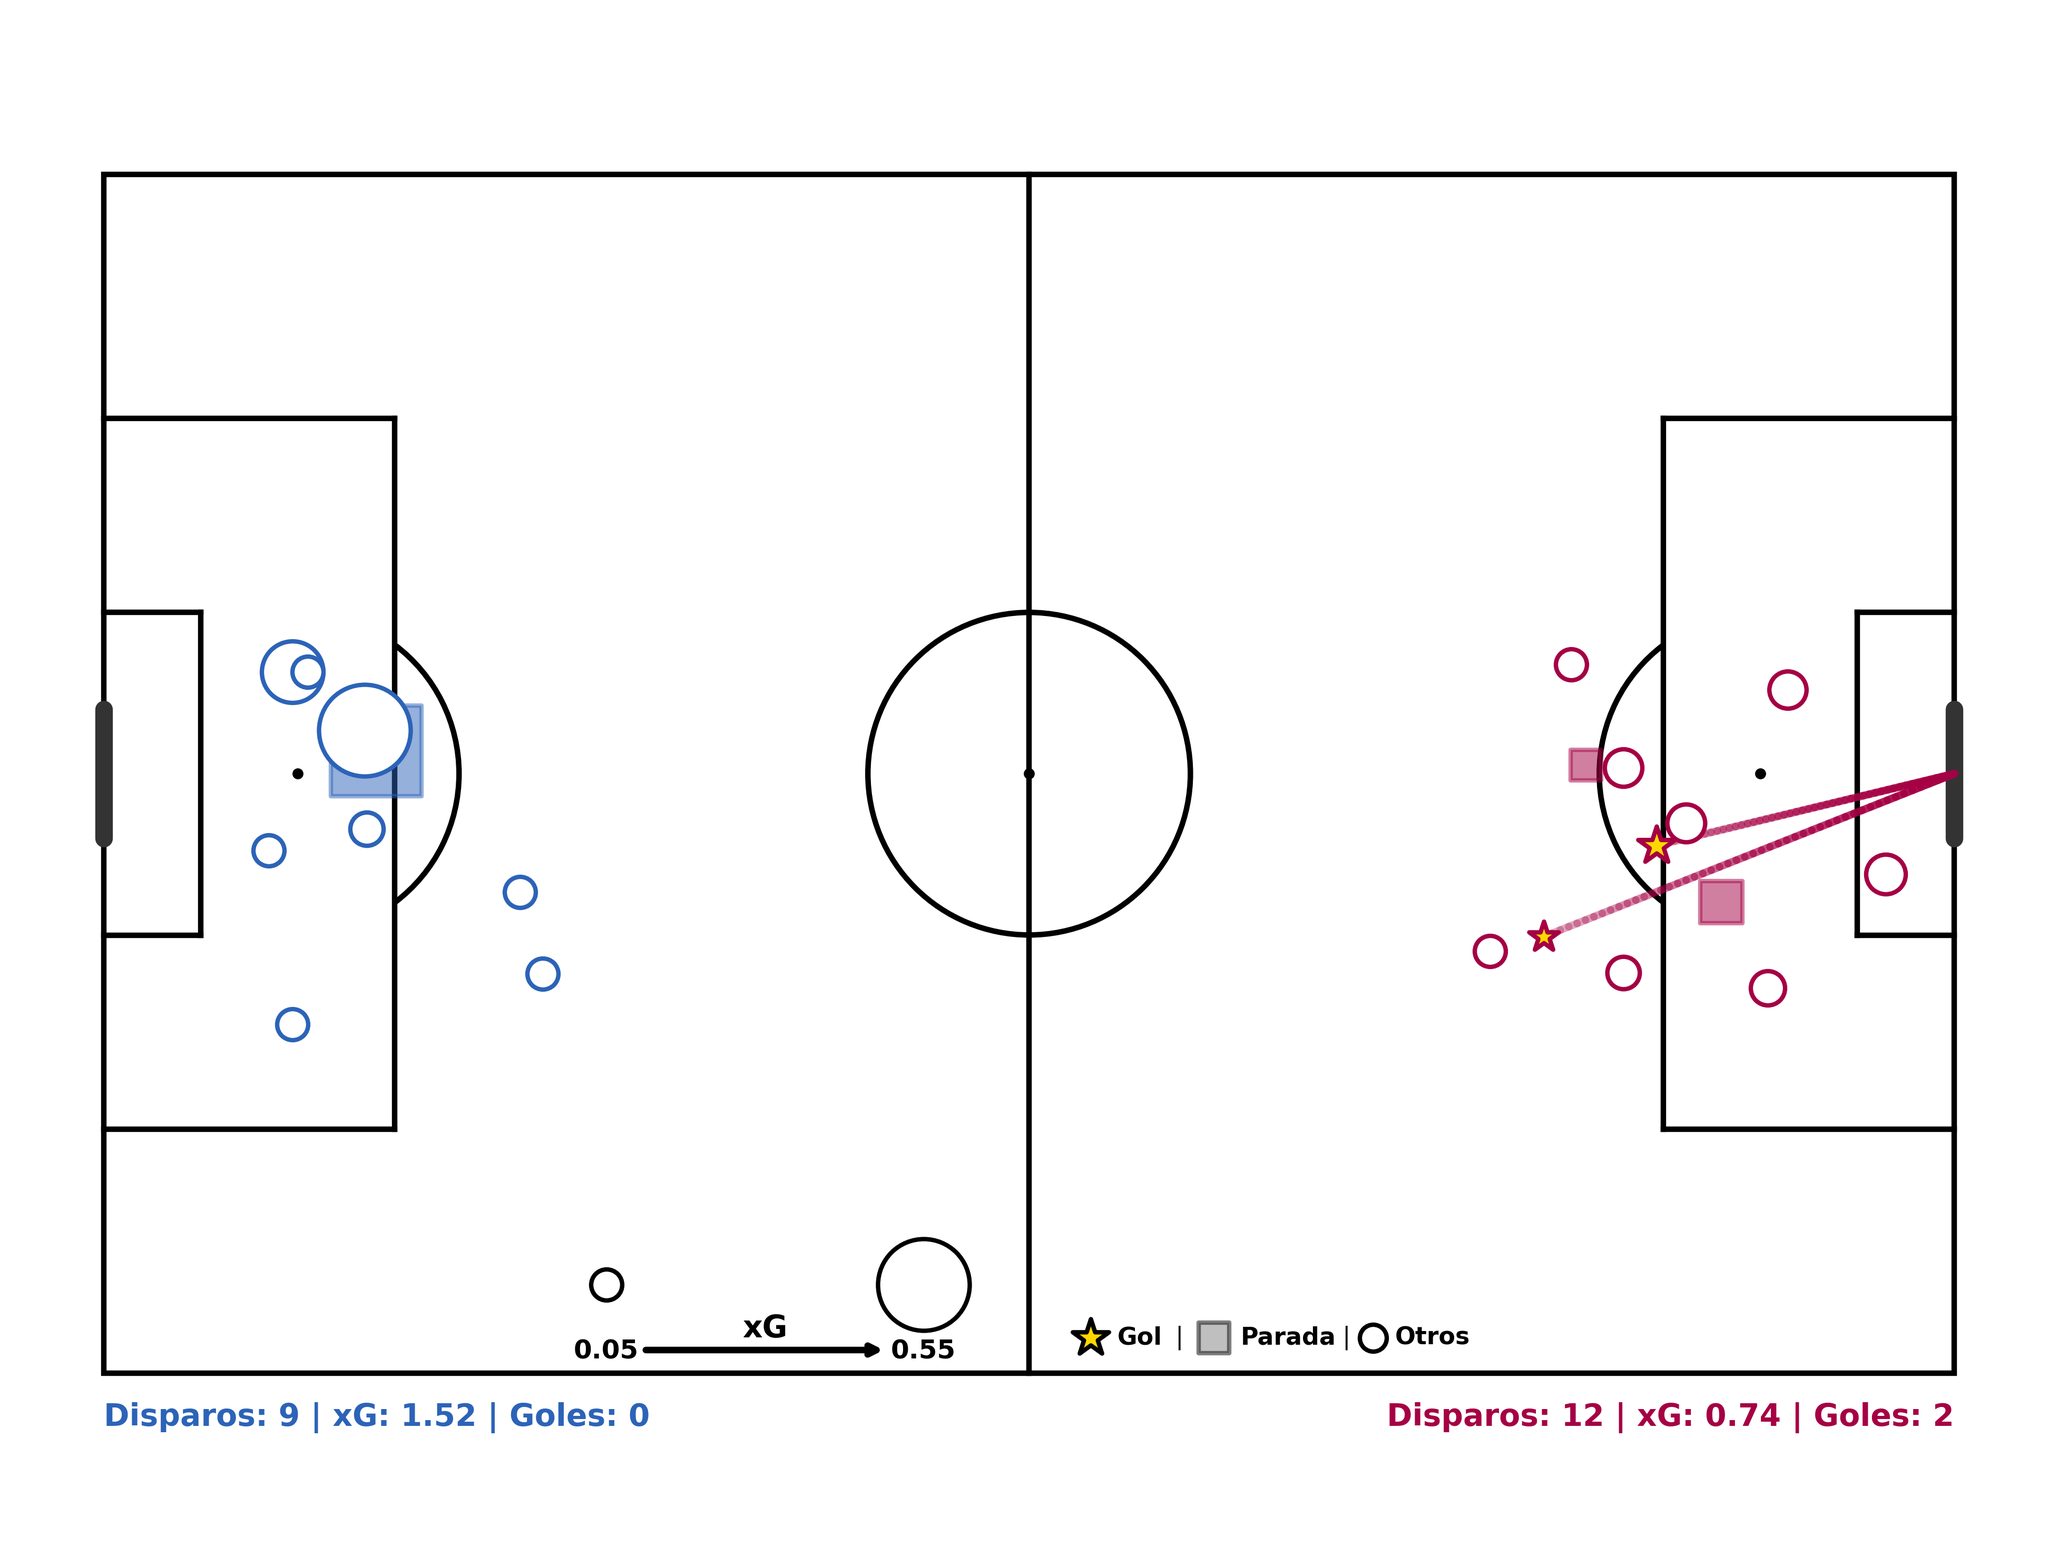
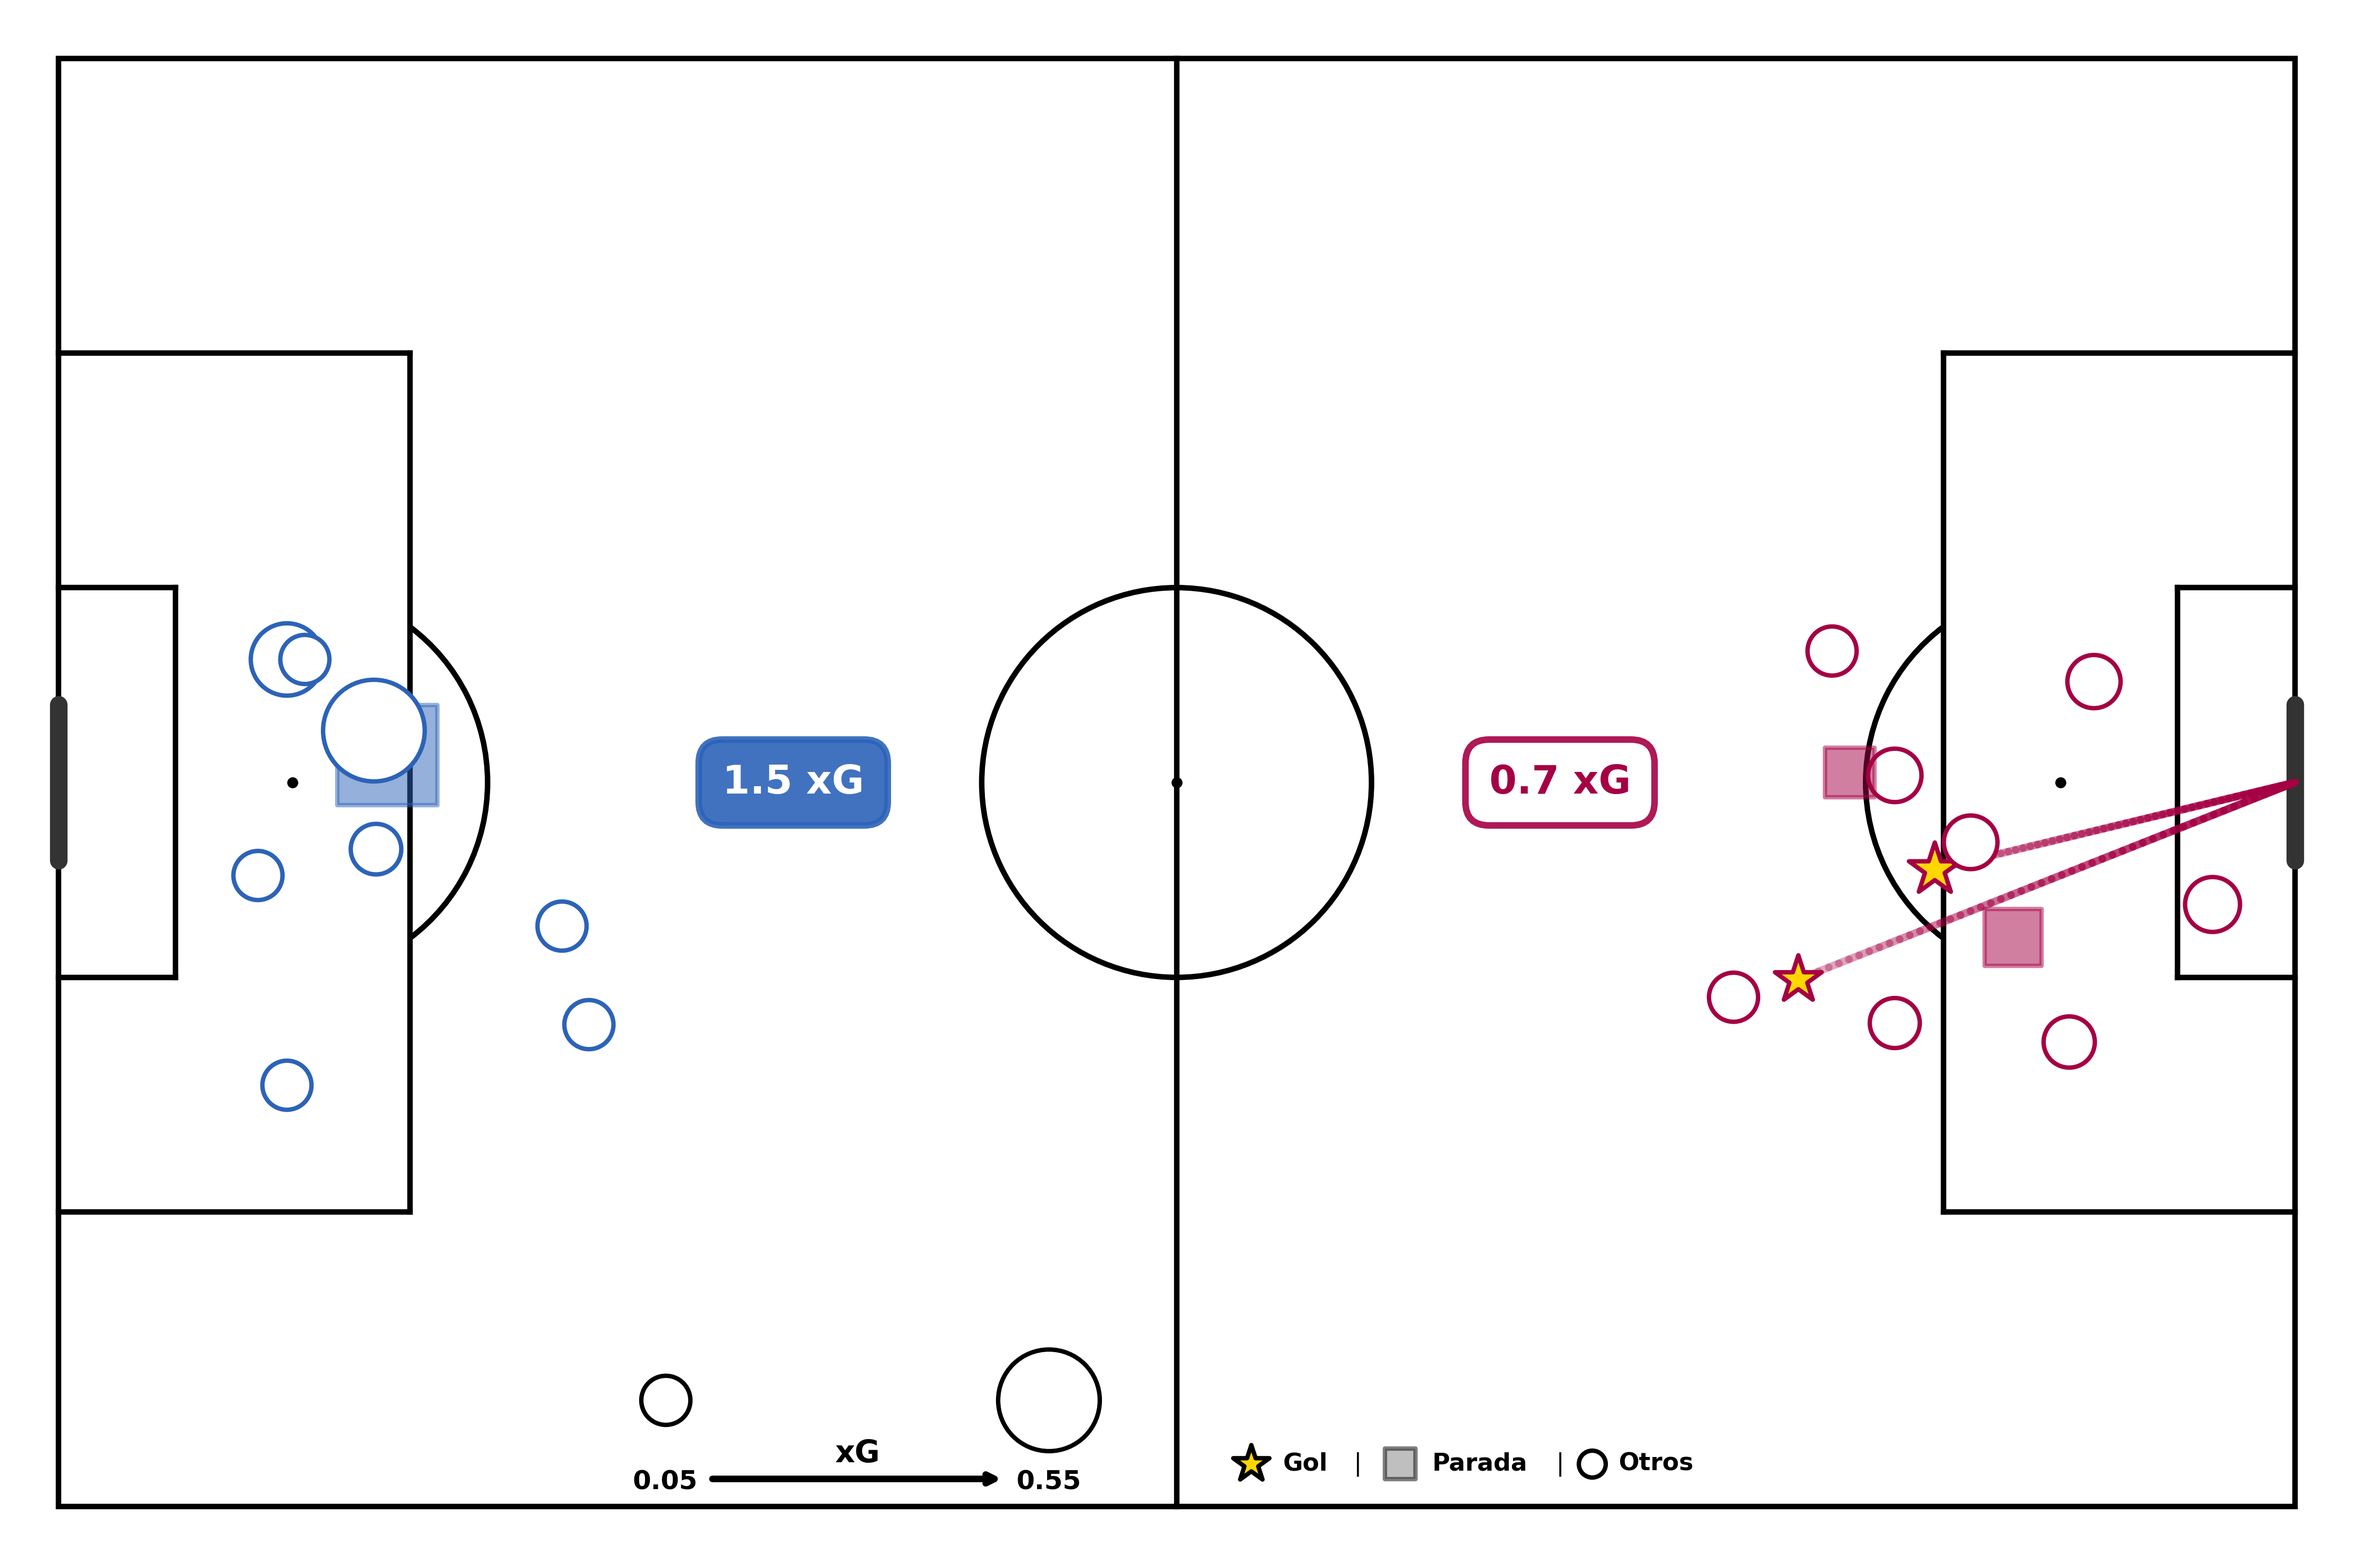
refactor: optimizar shot_map con xG en laterales y layout compacto
- Mover leyendas xG a laterales del círculo central (offset 18)
- Aumentar tamaño leyendas xG (fontsize 18, padding 0.6)
- Styling diferenciado: xG mayor relleno, menor con borde
- Recortar espacios laterales y verticales al máximo
- Mantener funcionalidades intactas del shot map

diff --git a/visualization/charts/shot_map.py b/visualization/charts/shot_map.py
@@ -17,8 +17,8 @@ from visualization.core import (
 
 # Sistema suave como pass_network pero adaptado a xG
 XG_SCALE_CONFIG = {
-    'min_size': 200,        # Coherente con pass_network
-    'max_size': 2500,       # Rango razonable para shot map
+    'min_size': 500,        # Coherente con pass_network
+    'max_size': 3200,       # Rango razonable para shot map
     'low_threshold': 0.05,  # xG bajo
     'mid_threshold': 0.30,  # xG medio (punto de inflexión)
     'high_threshold': 0.80, # xG alto
@@ -124,12 +124,12 @@ def create_shot_map(match_id: int, league: str, season: str,
     _draw_team_shots_unified(ax, shots_with_sizes, team_a, colors[team_a], 'left_to_right')
     _draw_team_shots_unified(ax, shots_with_sizes, team_b, colors[team_b], 'right_to_left')
     
-    # Layout inferior con leyenda unificada
-    _add_unified_layout(ax, shots_with_sizes, team_a, team_b, colors)
+    # Layout interior con leyendas y xG en corners
+    _add_interior_layout(ax, shots_with_sizes, team_a, team_b, colors)
     
-    # Formato final
-    ax.set_xlim(-5, 110)
-    ax.set_ylim(-10, 77)
+    # Formato final - límites con márgenes iguales en los 4 lados
+    ax.set_xlim(-2, 107)
+    ax.set_ylim(-2, 70)
     ax.set_aspect('equal')
     ax.axis('off')
     plt.tight_layout()
@@ -171,7 +171,6 @@ def _draw_team_shots_unified(ax, shots_df: pd.DataFrame, team_name: str, team_co
             face_color = '#FFD700'
             edge_color = team_color
         elif result == 'Saved Shot':
-
             face_color = team_color
             alpha = 0.5
         else:
@@ -216,25 +215,27 @@ def _draw_goal_line(ax, shot_x: float, shot_y: float, direction: str, team_color
     lc = LineCollection(segments, colors=colors_alpha, linewidths=3.5, capstyle='round', zorder=7)
     ax.add_collection(lc)
 
-def _add_unified_layout(ax, shots_df: pd.DataFrame, team_a: str, team_b: str, colors: Dict):
-    """Layout con leyenda de escalado unificado."""
+def _add_interior_layout(ax, shots_df: pd.DataFrame, team_a: str, team_b: str, colors: Dict):
+    """Layout interior con leyendas centrales y xG en círculo central."""
     
-    # Estadísticas de equipos
+    # Calcular xG por equipo
     team_a_shots = shots_df[shots_df['team'] == team_a]
-    a_total, a_xg, a_goals = len(team_a_shots), team_a_shots['shot_xg'].sum(), team_a_shots['is_goal'].sum()
-    
     team_b_shots = shots_df[shots_df['team'] == team_b]
-    b_total, b_xg, b_goals = len(team_b_shots), team_b_shots['shot_xg'].sum(), team_b_shots['is_goal'].sum()
     
-    # Estadísticas de equipos
-    ax.text(0, -3, f"Disparos: {b_total} | xG: {b_xg:.2f} | Goles: {b_goals}",
-           fontsize=14, ha='left', color=colors[team_b], fontweight='bold', family=FONT_CONFIG['family'])
+    a_xg = team_a_shots['shot_xg'].sum()
+    b_xg = team_b_shots['shot_xg'].sum()
     
-    ax.text(105, -3, f"Disparos: {a_total} | xG: {a_xg:.2f} | Goles: {a_goals}",
-           fontsize=14, ha='right', color=colors[team_a], fontweight='bold', family=FONT_CONFIG['family'])
+    # Determinar cuál tiene mayor xG para el styling
+    a_has_higher_xg = a_xg >= b_xg
     
-    # LEYENDA XG UNIFICADA (misma lógica que pass_network)
-    center_x = 52.5
+    # xG en laterales del círculo central con styling diferenciado
+    center_x, center_y = 52.5, 34
+    lateral_offset = 18  # Distancia del centro a los laterales - fuera del círculo
+    
+    _draw_central_xg(ax, center_x - lateral_offset, center_y, b_xg, colors[team_b], not a_has_higher_xg)  # Izquierda
+    _draw_central_xg(ax, center_x + lateral_offset, center_y, a_xg, colors[team_a], a_has_higher_xg)     # Derecha
+    
+    # LEYENDAS CENTRALES (mantenidas intactas)
     legend_y = 2
     
     # Leyenda de escalado xG (coherente con pass_network)
@@ -242,6 +243,25 @@ def _add_unified_layout(ax, shots_df: pd.DataFrame, team_a: str, team_b: str, co
     
     # Leyenda de símbolos (lado derecho)
     _draw_symbols_legend(ax, center_x+3.5, legend_y)
+
+def _draw_central_xg(ax, x: float, y: float, xg_value: float, team_color: str, is_higher: bool):
+    """Dibujar xG en lateral del círculo central con styling diferenciado y tamaño grande."""
+    
+    # Styling según si es mayor o menor xG - tamaño aumentado
+    if is_higher:
+        # xG mayor: fondo relleno del color del equipo
+        bbox_props = dict(boxstyle="round,pad=0.6", facecolor=team_color, 
+                         edgecolor=team_color, linewidth=3, alpha=0.9)
+        text_color = 'white'
+    else:
+        # xG menor: solo borde del color del equipo
+        bbox_props = dict(boxstyle="round,pad=0.6", facecolor='white', 
+                         edgecolor=team_color, linewidth=3, alpha=0.9)
+        text_color = team_color
+    
+    ax.text(x, y, f"{xg_value:.1f} xG", ha='center', va='center',
+           fontsize=18, fontweight='bold', color=text_color,
+           family=FONT_CONFIG['family'], bbox=bbox_props, zorder=20)
 
 def _draw_xg_scale_legend(ax, x: float, y: float, color: str, shots_df: pd.DataFrame):
     """Leyenda con escalado dinámico basado en xG máximo del partido."""
@@ -355,13 +375,12 @@ def create_shot_map_with_match_data(match_data: Dict[str, pd.DataFrame],
     _draw_team_shots_unified(ax, shots_with_sizes, team_a, colors[team_a], 'left_to_right')
     _draw_team_shots_unified(ax, shots_with_sizes, team_b, colors[team_b], 'right_to_left')
     
-    ax.text(52.5, 72, "Shot Map", ha='center', va='center',
-           fontsize=20, fontweight='bold', family=FONT_CONFIG['family'])
+    # Layout interior optimizado
+    _add_interior_layout(ax, shots_with_sizes, team_a, team_b, colors)
     
-    _add_unified_layout(ax, shots_with_sizes, team_a, team_b, colors)
-    
-    ax.set_xlim(-5, 110)
-    ax.set_ylim(-10, 77)
+    # Límites con márgenes iguales en los 4 lados
+    ax.set_xlim(-2, 107)
+    ax.set_ylim(-2, 70)
     ax.set_aspect('equal')
     ax.axis('off')
     plt.tight_layout()
